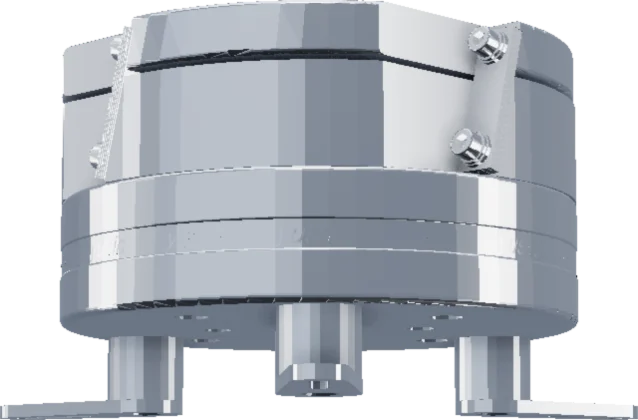
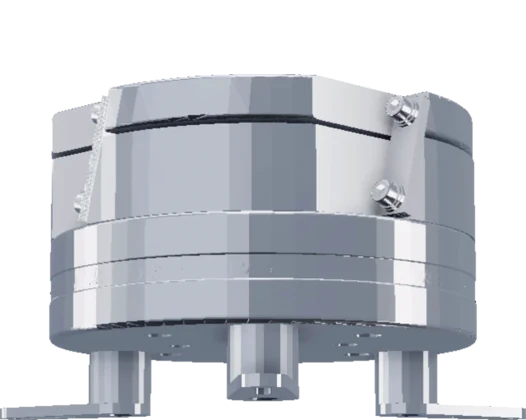
히어로 고주파진동기만 0.825 배 — 혼자 커 보였다
유신: "2호 고주파진동기 이거 경우 다른 진동기보다 더 커보이는거 같은데
시각적으로".

맞았다. 넷은 잉크 높이를 420 으로 맞춰 굽는데(bake.mjs) 고주파만 납작하고
넓은 드럼이라 높이를 맞추려고 혼자 부풀었다. 보이는 덩어리(알파 150 이상
픽셀)를 세면 고주파 187,780 · 구형 130,971 · 옆코아 123,355 · 75도 128,254
— 셋은 서로 ±3% 안인데 고주파만 1.43~1.52배다.

√(127,527 / 187,780) = 0.824 → 0.825 로 줄여 다시 구웠고, 다시 세니
127,494 로 셋의 평균에 맞았다. 1.00·0.87·0.825·0.78 네 가지를 찍어 눈으로도
봤다 — 0.87 은 아직 크고 0.78 은 되레 작다.

캔버스는 526x420 그대로 두고 내용만 줄여 바닥에 붙였다. 캔버스 높이가 같아야
넷이 같은 높이로 서고(li 가 w 비례, img 는 w-full h-auto), 바닥 정렬이라
넷이 같은 바닥선에 선다 — 넷 다 잉크 아랫변 419. w 638 → 526, 네 폭의 합
2081 → 1969, --span 계수 0.2018 → 0.2133(= 420/1969). cx 는 균일 축소라
그대로다(0.4984 → 0.4981, 다시 재서 확인).

폭 상한에서는 합이 줄면 그림이 커지므로 4호가 216x180 → 228x190 이 됐다.
열다섯 크기를 다시 재니 가로 넘침 0 · 세로 넘침 0(1280x720 히어로 639px,
1280x820 739px).

이건 "눈에 보이는 덩어리를 맞춘 것" 이지 "실제로 더 작다" 가 아니다.
주석에 BF-197H 가 254 x 142.1 x 254 로 적혀 있는데 옛 2호고주파진동기.stp
를 직접 재면 235.1 x 235.1 x 414.9 로 어긋난다(둘 중 무엇이 무엇인지 확인
못 했다). 실제 크기 주장은 하지 않는다. "아래 비율 숫자를 손대면 거짓이
된다 — 그 비가 곧 실제 크기 비다" 던 주석도 그래서 뒤집어 썼다.

diff --git a/src/app/page.tsx b/src/app/page.tsx
@@ -632,7 +632,9 @@ const PART_ERROR = { four: "0.1" };
    ⚠ 그 355/362/383 은 **고도 30도 때의 값이다.** 2026-10-19 에 넷을 고도
       16도로, 같은 날 다시 **고도 -8도**(올려다보기)로 구우며 w 가 전부
       달라졌다(475·415·393·438 → 573·485·489·505 → 539·461·467·482 →
-      638·524·477·503 → **638·463·477·503**).
+      638·524·477·503 → 638·463·477·503 → **526·463·477·503**).
+      ⚠ 마지막 한 번(638 → 526)만 **도면이 아니라 눈 때문**이다 — 고주파가
+         혼자 커 보여 0.825 로 줄여 구웠다(아래 VIBRATORS 머리 주석).
 
    ⚠⚠⚠ **위 :hide 두 개는 이제 안 쓴다(2026-10-19).** 유신이
       *"구형진동기 / 75도진동기 이거 안에 텅 비어 있잖아 원래 그게 아니라
@@ -998,7 +1000,10 @@ const VIBRATORS = [
         다시 묻게 되면 이 문단이 답이다.
 
      ⚠ w/h 는 실제 치수가 아니다. 넷이 모두 「2호」 변종이라 높이가 비슷하다고
-        보고 **잉크 높이를 420 으로 맞춘** 뒤 폭을 비율대로 뒀다. */
+        보고 **잉크 높이를 420 으로 맞춘** 뒤 폭을 비율대로 뒀다.
+     ⚠⚠ **2026-10-19 부터는 고주파의 w 조차 그 규칙에서 벗어나 있다** —
+        보이는 덩어리를 셋에 맞추려고 0.825 로 줄여 구웠다. 그러니 **w 끼리의
+        비를 실제 크기 비로 읽으면 안 된다.** 아래 VIBRATORS 머리 주석 참고. */
   /* ⚠⚠ **cx 는 그림 안에서 「원통 몸통」이 선 자리다**(0~1, 0.5 가 박스 한가운데).
      2026-10-15 에 "텍스트 위치 가운데에 있다는 느낌이 안 들어 … 진동기 원형으로
      가운데 해야지, 옆에 다리까지 같이 계산되어서 옆으로 간 거 같은 느낌" 이라는
@@ -1014,7 +1019,34 @@ const VIBRATORS = [
         ⚠ **질량 중심은 쓰지 않는다** — 다리가 가늘어도 길어서 중심을 끈다.
      ⚠⚠ **그림을 다시 구우면 cx 도 다시 재야 한다.** 렌더 각도·다리 위치가
         바뀌면 값이 통째로 달라진다. */
-  { no: "고주파 진동기", w: 638, h: 420, cx: 0.499, src: "/images/hero/vibrator-hifreq.webp", alt: "2호 고주파진동기" },
+  /* ⚠⚠⚠ **2026-10-19 — 고주파만 0.825 배로 다시 구웠다.** 유신이
+       *"2호 고주파진동기 이거 경우 다른 진동기보다 더 커보이는거 같은데
+       시각적으로"* 라고 짚었다. 맞았다 — 넷은 **잉크 높이를 420 으로** 맞춰
+       굽는데(bake.mjs) 고주파만 납작하고 넓은 드럼이라, 높이를 맞추려고
+       혼자 부풀었다. 보이는 덩어리(알파 150 이상 픽셀)를 세 보면 —
+
+         고주파 **187,780**   구형 130,971   옆코아 123,355   75도 128,254
+
+       나머지 셋은 서로 ±3% 안인데 고주파만 1.43~1.52배다.
+       √(127,527 / 187,780) = **0.824** → 0.825 로 줄여 다시 구웠고, 다시 세니
+       **127,494** 로 셋의 평균(127,527)에 맞았다. 1.00·0.87·0.825·0.78 네
+       가지를 찍어 눈으로도 봤다 — 0.87 은 아직 크고 0.78 은 되레 작다.
+
+       굽는 법 — 캔버스는 **526x420 그대로** 두고 내용만 줄여 **바닥에 붙인다**:
+         -vf "scale=526:-1,format=rgba,pad=526:420:0:420-ih:color=0x00000000"
+       넷의 캔버스 높이가 같아야 같은 높이로 서므로(li 가 w 비례, img 는
+       w-full h-auto) 캔버스를 420 에서 줄이면 안 된다. 바닥 정렬이라 넷이
+       **같은 바닥선**에 서고 고주파만 낮아진다 — 실제로 납작하니 맞는 모양이다.
+       다시 재니 넷 다 잉크 아랫변이 419 로 같다.
+
+       ⚠⚠ **이건 「눈에 보이는 덩어리를 맞춘 것」이지 「실제로 더 작다」가
+          아니다.** 아래 주석에 BF-197H 가 254 x 142.1 x 254 라고 적혀 있는데,
+          위 폴더의 옛 `2호고주파진동기.stp` 를 직접 재면 235.1 x 235.1 x 414.9
+          로 어긋난다(둘 중 무엇이 무엇인지 확인 못 했다). **실제 크기 주장은
+          하지 않는다.**
+       ⚠ cx 는 그대로다 — 가로로는 여백을 안 넣고 균일 축소라 비율이 안 바뀐다.
+          다시 재서 확인했다(0.4984 → 0.4981). */
+  { no: "고주파 진동기", w: 526, h: 420, cx: 0.499, src: "/images/hero/vibrator-hifreq.webp", alt: "2호 고주파진동기" },
   { no: "구형 진동기", w: 463, h: 420, cx: 0.512, src: "/images/hero/vibrator-round.webp", alt: "2호 구형진동기" },
   { no: "옆코아 진동기", w: 477, h: 420, cx: 0.545, src: "/images/hero/vibrator-sidecore.webp", alt: "2호 옆코아진동기" },
   { no: "75도 진동기", w: 503, h: 420, cx: 0.539, src: "/images/hero/vibrator-75deg.webp", alt: "2호 75도진동기" },
@@ -1635,15 +1667,18 @@ export default function Home() {
                      ul 은 100% 를 쓰며, **남는 폭 전부를 간격 셋이 나눈다.**
 
                      --h    가장 큰 4호의 **높이** 상한
-                     --span 네 그림 **폭의 합** = --h / 0.2018
-                            0.2018 = 420 / 2081 (가장 높은 그림 h / 네 폭의 합)
+                     --span 네 그림 **폭의 합** = --h / 0.2133
+                            0.2133 = 420 / 1969 (그림 캔버스 h / 네 폭의 합)
                             ⚠ 거쳐 온 값 — 1419(2D 도면) → 1453 → 1460(구형 커버를
                                벗겨 355 → 362) → 1523(옆코아만 고도 18) →
                                1639(고도 20도) → 1721(같은 날 고도 16도) →
                                2052(같은 날 고도 6도로 세 번째) →
                                1949(같은 날 고도 9도로 네 번째) →
                                2142(같은 날 고도 -8도로 다섯 번째) →
-                               **2081**(같은 날 구형·75도를 속이 든 도면으로)
+                               2081(같은 날 구형·75도를 속이 든 도면으로) →
+                               **1969**(같은 날 고주파만 0.825 로 줄여 다시 구워
+                               638 → 526. 앞의 값들은 전부 **도면·각도**가
+                               바꾼 것이고 이 한 번만 **눈**이 바꾼 것이다)
                             ⚠ 고도를 내릴수록 **합이 커진다** — 상판이 누우면
                                높이는 줄고 폭은 그대로라, 잉크 높이 420 에
                                맞출 때 폭이 늘어난다. 그만큼 같은 폭 상한에서
@@ -1651,16 +1686,23 @@ export default function Home() {
                             1419 는 2D 도면 시절 네 폭의 합(207+288+375+549)
                      li     calc(var(--span) * 그 기종 폭 / VIBRATOR_SPAN)
                             ⚠ 코드는 1419 가 아니라 **VIBRATOR_SPAN(= 네 폭의 합,
-                               지금 2081)**으로 나눈다 — 데이터에서 합을 다시 센다.
+                               지금 1969)**으로 나눈다 — 데이터에서 합을 다시 센다.
                                1419 는 아래 이력 줄의 첫 값일 뿐이다.
                      gap    (100% - --span) / 3   ← 남는 폭을 셋이 나눈다
 
                      ⚠ --span 에 min() 이 걸려 있다. 화면이 높고 좁으면
-                        --h/0.2018 가 100% 를 넘어 **간격이 음수**가 된다.
+                        --h/0.2133 가 100% 를 넘어 **간격이 음수**가 된다.
 
-                     ⚠⚠ **아래 비율 숫자를 손대면 거짓이 된다.** 넷은 같은
-                        도면에서 같은 축척으로 잘라 온 것이고 그 비가 곧
-                        실제 크기 비다. */}
+                     ⚠⚠ **한때 여기에 "아래 비율 숫자를 손대면 거짓이 된다 —
+                        넷은 같은 도면에서 같은 축척으로 잘라 온 것이고 그 비가
+                        곧 실제 크기 비다" 라고 적혀 있었다.** 2026-10-19 에
+                        **내가 그 규칙을 깼다** — 고주파가 혼자 커 보인다는 말을
+                        받아 그것만 0.825 로 줄여 구웠다(VIBRATORS 머리 주석).
+                        그러니 지금 w 의 비는 **실제 크기 비가 아니다.**
+                        나머지 셋끼리는 여전히 같은 축척이다.
+                        ⚠ 숫자를 고칠 일이 생기면 **그 뜻을 알고** 고친다 —
+                           도면이 바뀌면 bake.mjs 가 낸 폭을 그대로 쓰되,
+                           고주파에는 0.825 를 다시 먹여야 균형이 유지된다. */}
               <ul
                 className="flex w-full items-end lg:[--cap:82%]"
                 style={{
@@ -1690,7 +1732,7 @@ export default function Home() {
                              414 390 375 360  폭         126 117 111 105
                              320x568    (라인업 감춤)     -
 
-                           --span 이 min(--h/0.2018, 100% - 3rem) 이고
+                           --span 이 min(--h/0.2133, 100% - 3rem) 이고
                            Container 안쪽이 1088px 이라, 1440 이상에서는
                            1040px 에서 폭이 먼저 막는다. 좁은 폭에서는
                            화면 폭 자체가 막는다. **높이가 상한인 구간은
@@ -1708,6 +1750,22 @@ export default function Home() {
                               아래 두 문단(①②)과 "0.78svh - 262" 이야기는
                               계수가 0.2440 이던 때의 기록이다. 계수를 다시
                               올리면 그대로 되살아난다 — 그래서 지우지 않는다.
+
+                           ⚠ **같은 날 늦게 0.2018 → 0.2133 으로 다시 올랐다**
+                              (고주파만 0.825 로 줄여 구워 합이 2081 → 1969).
+                              경계는 180.0 → **190.3** 으로 조금 올라왔지만
+                              --h(359 · 294)는 여전히 그보다 위라, **위 결론은
+                              그대로**다 — 열다섯 크기 전부 폭 상한이다.
+                              다만 폭 상한에서는 합이 줄면 그림이 **커진다**
+                              (같은 폭을 넷이 나누는데 비례 분모가 작아진다) —
+                              4호가 216x180 → **228x190** 이 됐다(폭도 같은
+                              5.7% 만큼 는다 — li 가 span x w/SPAN 이라
+                              분모만 줄었다). 열다섯 크기를 다시 재니 **가로
+                              넘침 0 · 세로 넘침 0** 이다. 1280x720 에서 히어로
+                              639px(뷰포트 720), 1280x820 에서 739px.
+                              ⚠ 360x640 은 `[@media(max-height:640px)]:hidden`
+                                 에 걸려 라인업이 통째로 감춰진다 — 전부터
+                                 그랬고 이번 고침과 무관하다.
 
                            ⚠ 그래서 두 가지가 따라온다 —
                              ① 1920 에서 라인업 아래 199px 이 남는 것은
@@ -1769,7 +1827,7 @@ export default function Home() {
                            1440 에서 4호가 402px 그대로였다. 기본값은 여기
                            var() 의 **두 번째 인자**로 둔다. */
                   ["--span" as string]:
-                    "min(calc(var(--h) / 0.2018), var(--cap, calc(100% - 3rem)))",
+                    "min(calc(var(--h) / 0.2133), var(--cap, calc(100% - 3rem)))",
                   gap: "max(0.5rem, calc((100% - var(--span)) / 3))",
                 }}
               >
